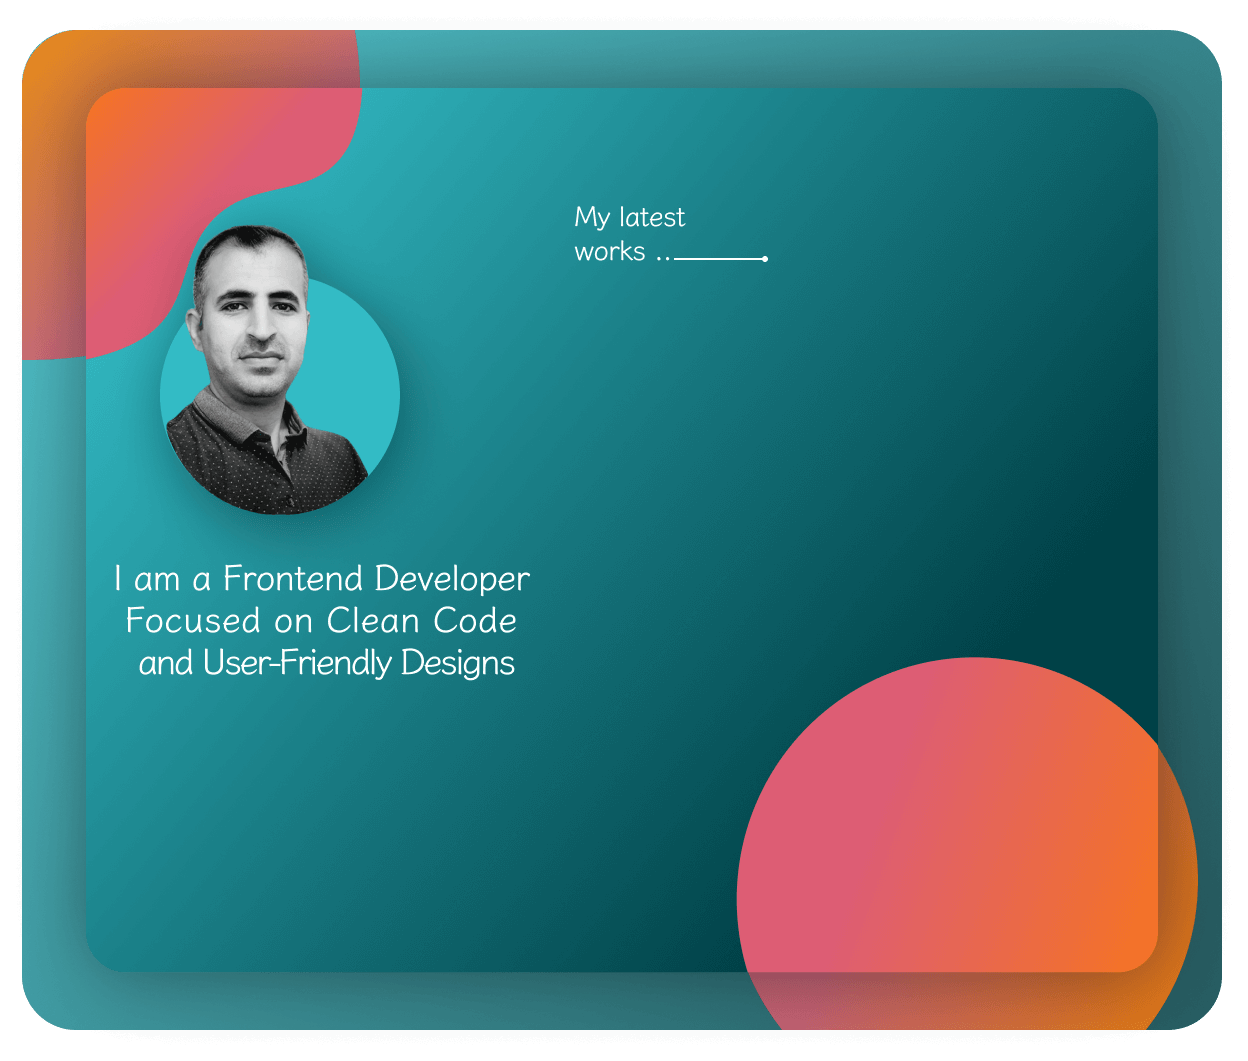
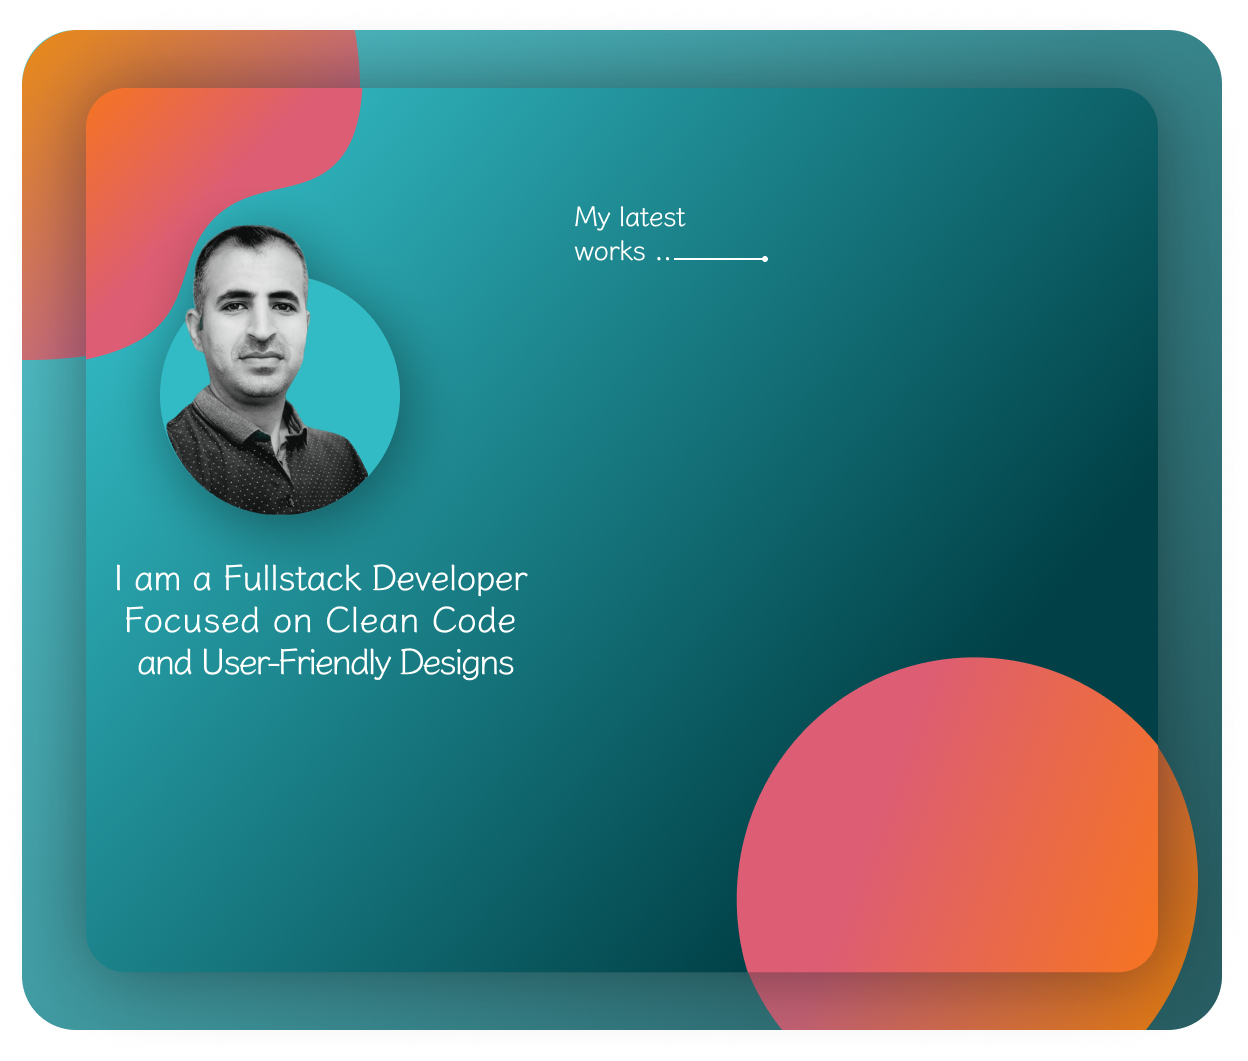
Feature Yormio and refresh project previews and popup

Changed region(s): [[0.0938, 0.5287, 0.4375, 0.6532]]

diff --git a/src/components/Projects/ProudOfProjects/ProudOfProject.tsx b/src/components/Projects/ProudOfProjects/ProudOfProject.tsx
@@ -8,9 +8,11 @@ import styles from './ProudOfProjects.module.css';
 
 type Project = {
   title: string;
+  titleLines?: string[];
   url: string;
   description: string;
   alt: string;
+  previewAspectRatio?: string;
   demoLink?: string;
   linkLabel?: string;
   stack: string[];
@@ -21,11 +23,26 @@ type Project = {
 
 const projects: Project[] = [
   {
+    title: 'Yormio',
+    url: 'yormio.jpg',
+    description:
+      'An AI-powered mobile app that turns natural voice or pasted text into reminders, checklists, and organized plans. Extract multiple actions in one capture, review them before approval, and keep upcoming tasks in view with a calendar and widgets.',
+    alt: 'Yormio voice capture, reminders, and calendar app in light and dark mode',
+    previewAspectRatio: '1794 / 877',
+    demoLink: 'https://yormio-app.netlify.app/',
+    linkLabel: 'Explore Yormio',
+    stack: ['AI', 'Voice & Text', 'Mobile', 'Product UX'],
+    facts: ['Review before saving', 'Calendar & widgets', 'Light & dark mode'],
+    impact: 'AI-powered reminders & lists',
+    accent: '#2dd4bf',
+  },
+  {
     title: 'Parlio',
-    url: 'parlio',
+    url: 'parlio.jpg',
     description:
       'A launched multilingual React Native learning app with seven languages, subscriptions, offline functionality, and Supabase integration. Turns your own sentences into practice with AI translation, flashcards, quizzes, and listening.',
     alt: 'Parlio app preview',
+    previewAspectRatio: '3461 / 1690',
     demoLink: 'https://parlio-app.netlify.app/',
     stack: ['React Native', 'TypeScript', 'Supabase', 'AI'],
     facts: ['7 languages', 'Offline learning', 'Subscriptions'],
@@ -34,10 +51,11 @@ const projects: Project[] = [
   },
   {
     title: 'Simple Task',
-    url: 'simpletask',
+    url: 'Simplytask.jpg',
     description:
       'A React Native task app live on Google Play, focused on clean daily workflows, scalable structure, and a practical mobile user experience.',
     alt: 'Simple Task project preview',
+    previewAspectRatio: '1794 / 876',
     demoLink: 'https://play.google.com/store/apps/details?id=com.bgSweden.simpletask',
     stack: ['React Native', 'Mobile', 'NativeWind'],
     facts: ['Google Play', 'Daily workflow', 'Mobile UX'],
@@ -45,11 +63,12 @@ const projects: Project[] = [
     accent: '#22c55e',
   },
   {
-    title: 'SkyEducation',
-    url: 'sky',
+    title: 'Sky Education',
+    titleLines: ['Sky', 'Education'],
+    url: 'sky.jpg',
     description:
       'A responsive learning platform for children, built with React, multilingual content, EmailJS, Google Sheets submissions, and polished Framer Motion interactions.',
-    alt: 'SkyEducation project preview',
+    alt: 'Sky Education project preview',
     demoLink: 'https://skyeducationacademy.com/',
     stack: ['React', 'i18n', 'EmailJS', 'Motion'],
     facts: ['3 languages', 'Lead forms', 'Course platform'],
@@ -58,7 +77,7 @@ const projects: Project[] = [
   },
   {
     title: 'Parking Time',
-    url: 'parking',
+    url: 'parking.jpg',
     description:
       'A parking management product built in a cross-functional team with Next.js, TypeScript, Tailwind, Contentful CMS, reusable components, and API integrations.',
     alt: 'Parking Time project preview',
@@ -70,7 +89,7 @@ const projects: Project[] = [
   },
   {
     title: 'Rosa Taxi',
-    url: 'rosee',
+    url: 'rosee.jpg',
     description:
       'A service website for a UK taxi company with custom branding, responsive UX, form flows, and a warm visual identity designed around trust and clarity.',
     alt: 'Rosa Taxi project preview',
@@ -82,7 +101,7 @@ const projects: Project[] = [
   },
   {
     title: 'Profile',
-    url: 'portfolio',
+    url: 'portfolio.jpg',
     description:
       'A Next.js and TypeScript portfolio with dark/light mode, accessibility-minded UI, data-driven sections, motion, and a static export deployment flow.',
     alt: 'Portfolio project preview',
@@ -151,15 +170,12 @@ export default function ProudOfProjects() {
       <div className={styles.header} data-project-heading>
         <p>Selected work</p>
         <h2 id="featured-projects-title">Projects that show how I build</h2>
-        <p>
-          Also delivered: <a href="https://yormio-app.netlify.app/" target="_blank" rel="noreferrer" className="underline underline-offset-4">Yormio</a>.
-        </p>
       </div>
 
       <div className={styles.showcase}>
         <aside className={styles.stickyPanel}>
           <div className={styles.eyebrow}>0{activeIndex + 1} / 0{projects.length}</div>
-          <h3>{activeProject.title}</h3>
+          <ProjectHeading project={activeProject} />
           <p>{activeProject.impact}</p>
           <div className={styles.progressRail} aria-hidden="true">
             <span style={{ height: `${((activeIndex + 1) / projects.length) * 100}%` }} />
@@ -178,7 +194,7 @@ export default function ProudOfProjects() {
             >
               <div className={styles.copy}>
                 <span className={styles.projectNumber}>0{index + 1}</span>
-                <h3>{project.title}</h3>
+                <ProjectHeading project={project} />
                 <p>{project.description}</p>
                 <div className={styles.stack}>
                   {project.stack.map((item) => (
@@ -209,11 +225,12 @@ export default function ProudOfProjects() {
                   <span />
                 </div>
                 <Image
-                  src={`/images/proudProjects/${project.url}.jpg`}
+                  src={`/images/proudProjects/${project.url}`}
                   alt={project.alt}
                   width={640}
                   height={460}
-                  className={styles.projectImage}
+                  className={`${styles.projectImage} ${project.previewAspectRatio ? styles.fullImage : ''}`}
+                  style={{ aspectRatio: project.previewAspectRatio }}
                   sizes="(max-width: 768px) 92vw, 48vw"
                 />
               </div>
@@ -222,5 +239,15 @@ export default function ProudOfProjects() {
         </div>
       </div>
     </section>
+  );
+}
+
+function ProjectHeading({ project }: { project: Project }) {
+  return (
+    <h3 aria-label={project.title}>
+      {project.titleLines
+        ? project.titleLines.map((line) => <span key={line} className="block">{line}</span>)
+        : project.title}
+    </h3>
   );
 }

diff --git a/src/components/HireMePopup/HireMePopup.tsx b/src/components/HireMePopup/HireMePopup.tsx
@@ -28,29 +28,19 @@ const HireMePopup = () => {
 
   const projects = [
     {
-      img: "simpletask.jpg",
-      href: "https://play.google.com/store/apps/details?id=com.bgSweden.simpletask",
-      alt: "Sky Tech Education Academy project"
+      img: "yormio.jpg",
+      href: "https://yormio-app.netlify.app/",
+      alt: "Yormio"
+    },
+    {
+      img: "parlio.jpg",
+      href: "https://parlio-app.netlify.app/",
+      alt: "Parlio"
     },
     {
       img: "sky.jpg",
       href: "https://skyeducationacademy.com/",
-      alt: "Sky Tech Education Academy project"
-    },
-    {
-        img: "portfolio.jpg",
-        href: "https://bedirgocmez.com/",
-        alt: "Meals application project"
-      },
-    {
-      img: "rosee.jpg",
-      href: "https://www.rosetravel.co.uk/",
-      alt: "Rose Taxi project"
-    },
-    {
-      img: "parking.jpg",
-      href: "https://parking-time-next.vercel.app/",
-      alt: "Meals application project"
+      alt: "SkyEducation"
     },
   ];
 

diff --git a/src/components/Projects/ProudOfProjects/ProudOfProjects.module.css b/src/components/Projects/ProudOfProjects/ProudOfProjects.module.css
@@ -54,8 +54,10 @@
 .stickyPanel {
   position: sticky;
   top: 110px;
+  min-width: 0;
   min-height: 420px;
   padding: 30px;
+  padding-right: 42px;
   border: 1px solid rgba(26, 123, 129, 0.2);
   border-radius: 8px;
   background:
@@ -85,7 +87,8 @@
   margin: 0 0 12px;
   color: #0f172a;
   font-size: clamp(2rem, 4vw, 3.7rem);
-  line-height: 0.94;
+  line-height: 1.08;
+  overflow-wrap: anywhere;
 }
 
 :global(.dark) .stickyPanel h3 {
@@ -168,6 +171,7 @@
   color: #0f172a;
   font-size: clamp(2rem, 4vw, 4rem);
   line-height: 0.95;
+  overflow-wrap: anywhere;
 }
 
 :global(.dark) .copy h3 {
@@ -331,6 +335,13 @@
 .projectCard:hover .projectImage,
 .projectCard:focus-within .projectImage {
   transform: scale(1.08);
+}
+
+.fullImage,
+.projectCard:hover .fullImage,
+.projectCard:focus-within .fullImage {
+  object-fit: contain;
+  transform: none;
 }
 
 @media (max-width: 980px) {

diff --git a/src/components/HireMePopup/HireMePopup.module.css b/src/components/HireMePopup/HireMePopup.module.css
@@ -94,10 +94,13 @@
     display: block;
     transition: all 1s cubic-bezier(0.075, 0.82, 0.165, 1);
     width: 85%;
+    flex-shrink: 0;
   }
   
   .projectImg {
     width: 100%;
+    height: auto;
+    object-fit: contain;
     border-radius: 6px;
     box-shadow: rgba(0, 0, 0, 0.35) 0px 5px 15px;
     cursor: pointer;
